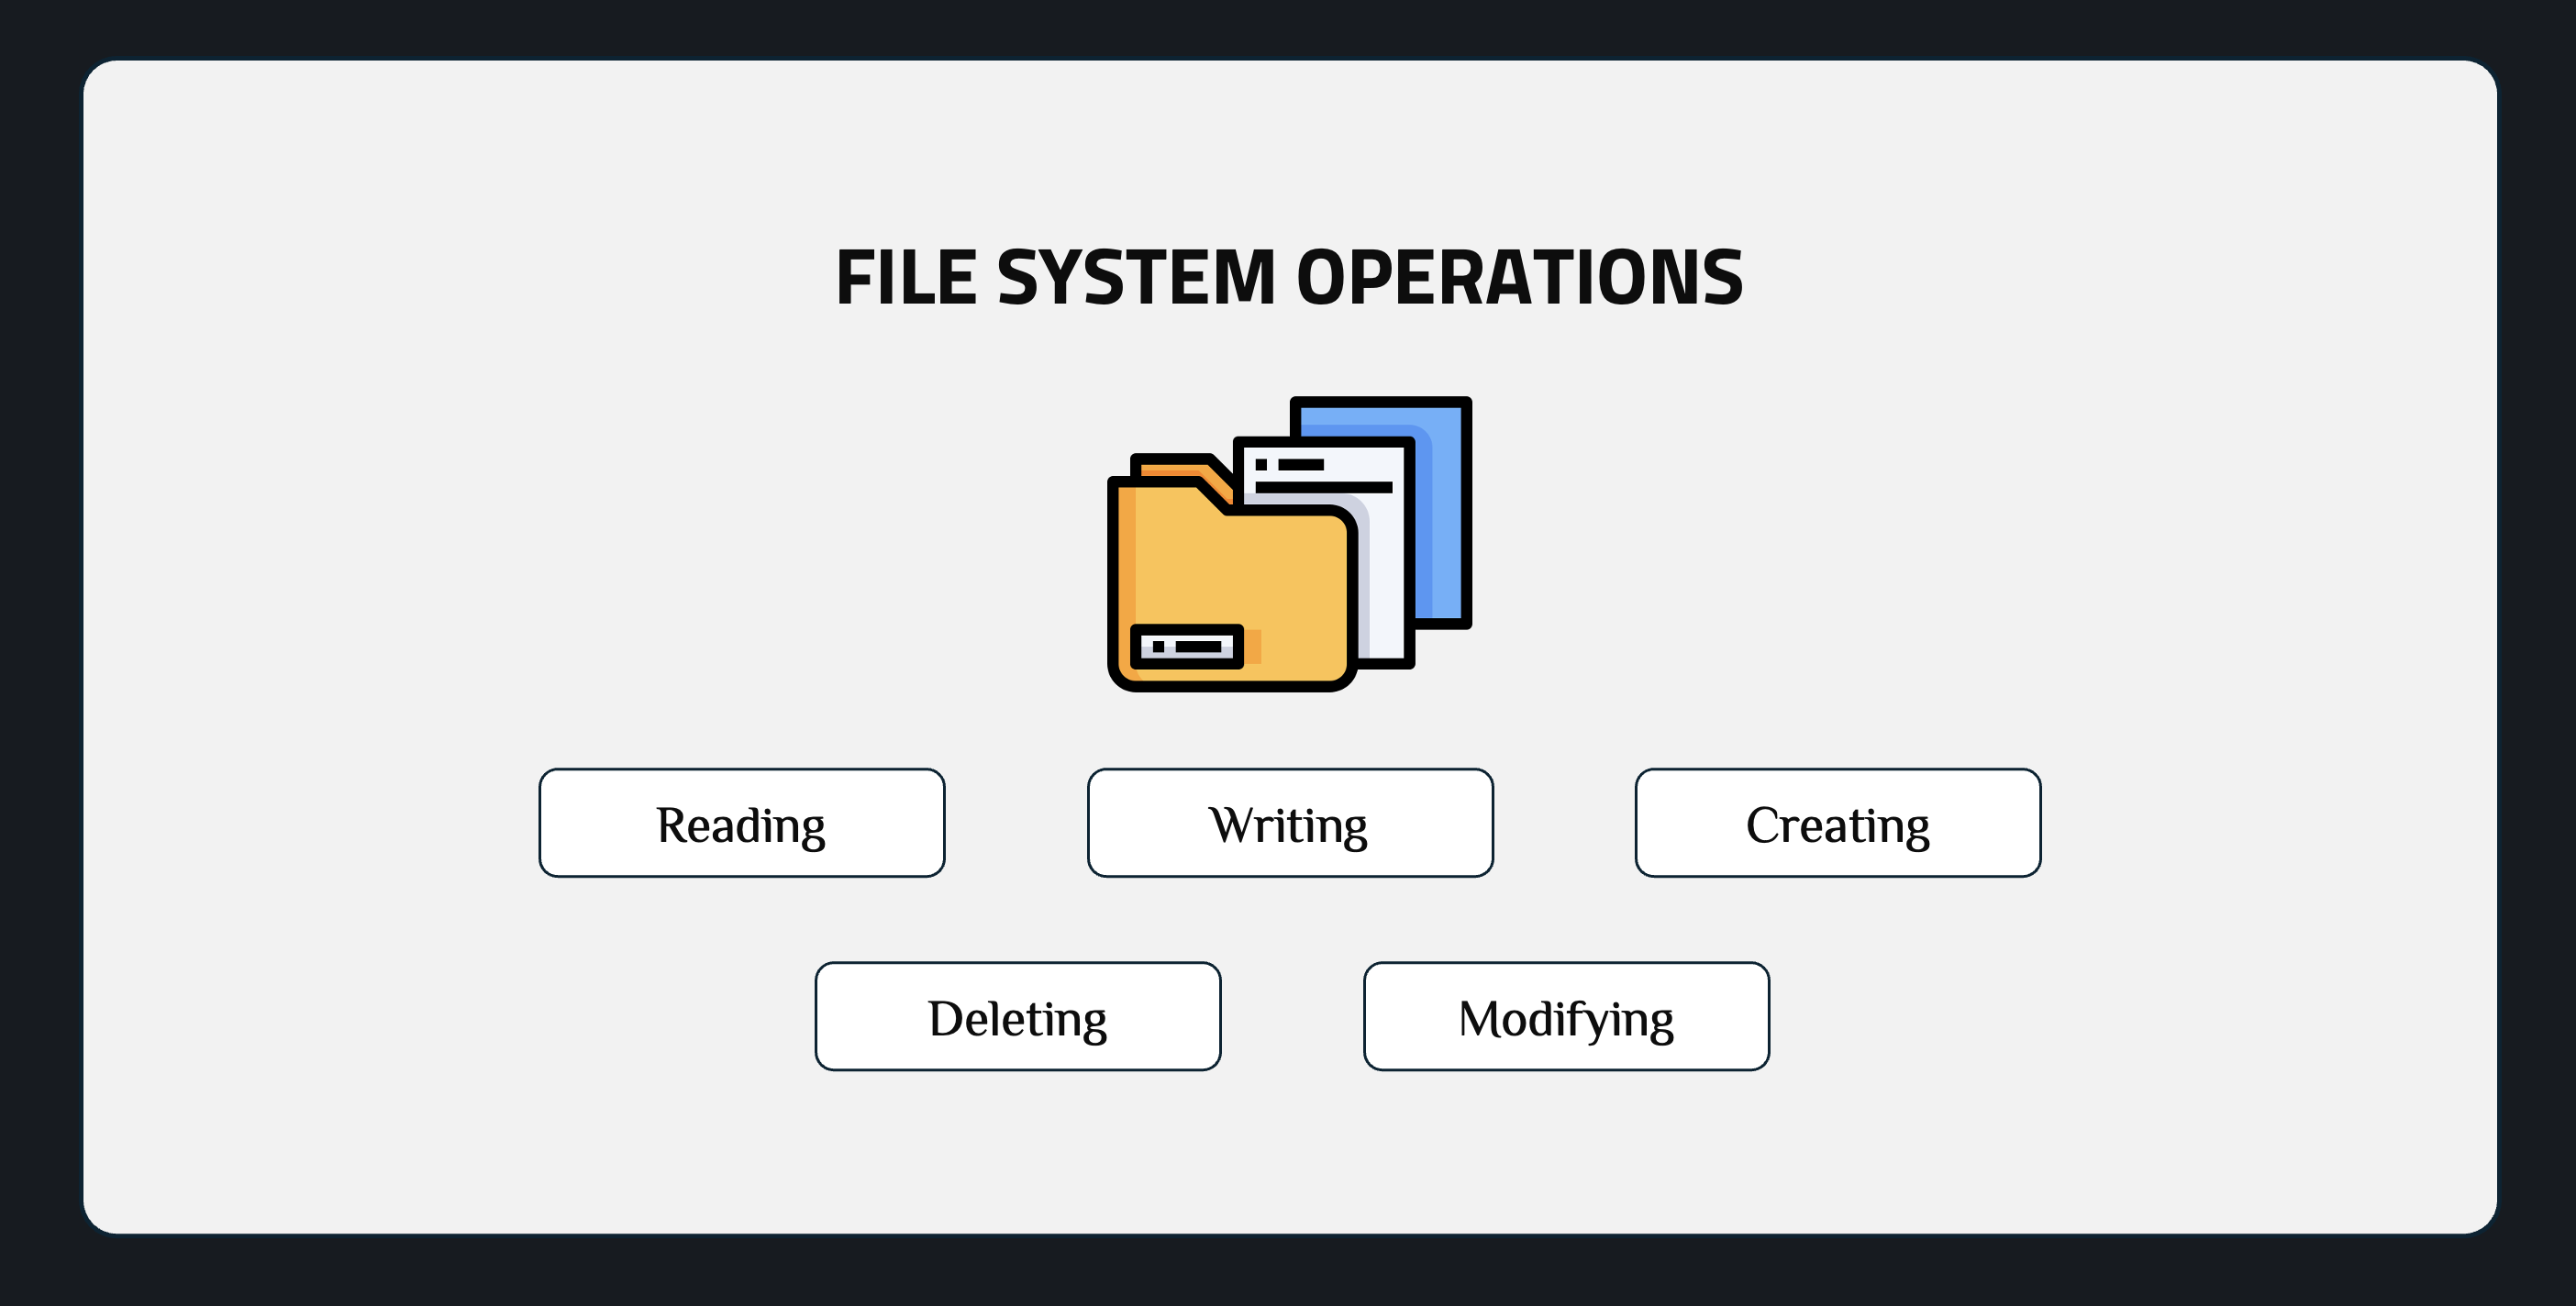
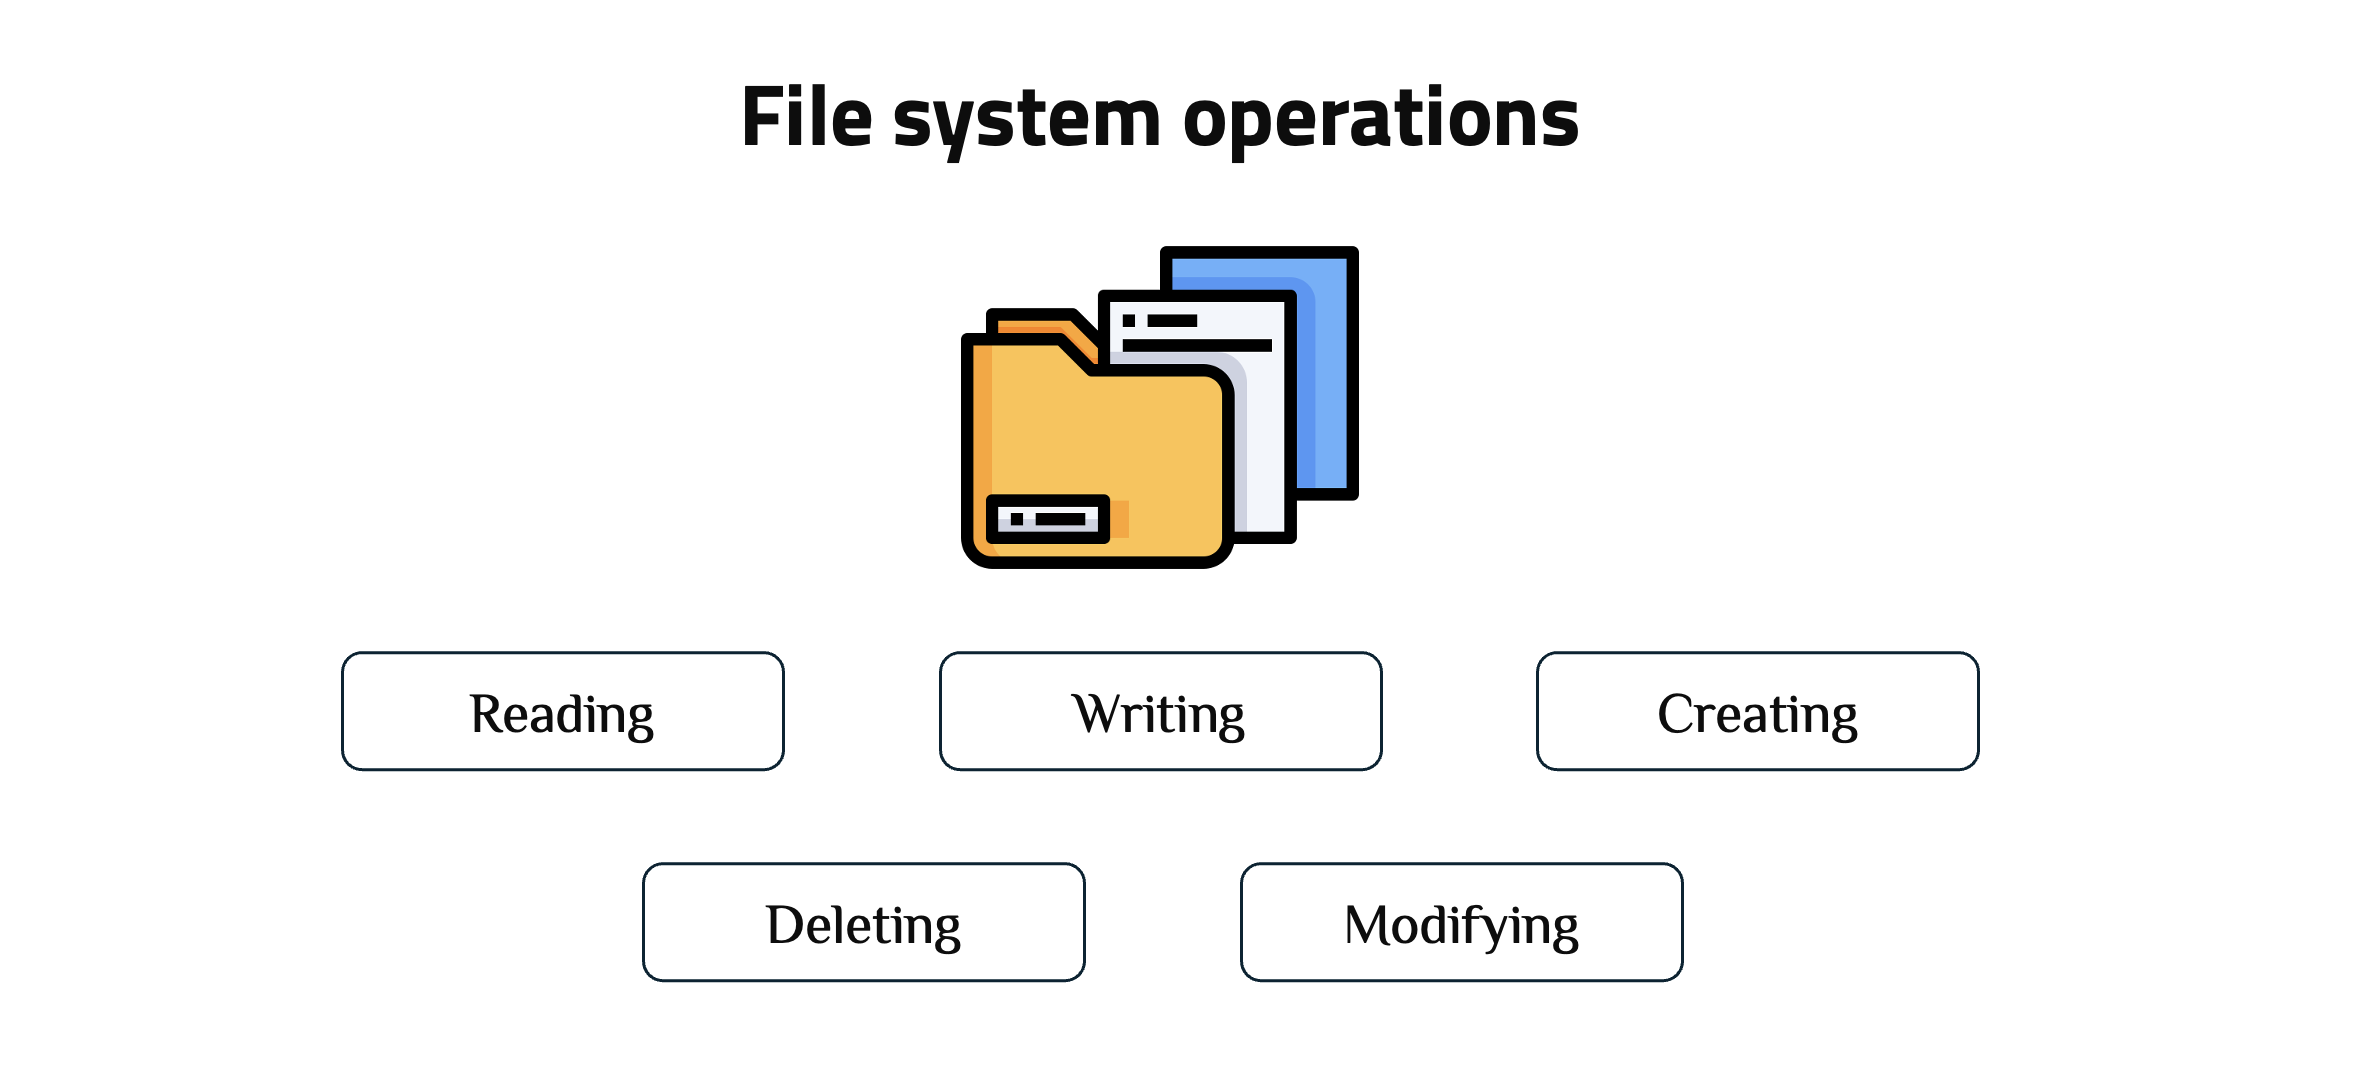
docs: enhanced document for fs and swagger

diff --git a/02_File_System/Path_Manipulation/README.md b/02_File_System/Path_Manipulation/README.md
@@ -23,17 +23,13 @@ Path manipulation refers to the process of working with file and directory paths
 
 **Path Delimiter**: The character used to separate path segments.
 
+- Example (POSIX): `/`
+- Example (Windows): `\`
+
 **Path Separator**: The character used to separate multiple paths in environment variables.
 
-### Platform Differences
-
-| Feature          | POSIX (Linux/Mac)     | Windows                  |
-| ---------------- | --------------------- | ------------------------ |
-| Path Delimiter   | `/`                   | `\`                      |
-| Path Separator   | `:`                   | `;`                      |
-| Root             | `/`                   | `C:\`, `D:\`, etc.       |
-| Case Sensitivity | Yes                   | No                       |
-| Example Path     | `/home/user/file.txt` | `C:\Users\user\file.txt` |
+- Example (POSIX): `:` (e.g., `/usr/bin:/bin`)
+- Example (Windows): `;` (e.g., `C:\Windows;C:\Program Files`)
 
 ---
 

diff --git a/10_Restful_API_Logging_Documents/README.md b/10_Restful_API_Logging_Documents/README.md
@@ -16,6 +16,8 @@ API documentation is a technical content deliverable that describes how to use a
 
 **Swagger** is a set of open-source tools built around the OpenAPI Specification. Swagger tools include Swagger UI (interactive API documentation), Swagger Editor (editor for OpenAPI specs), and Swagger Codegen (code generation from specs).
 
+![Swagger](./public/swagger.png)
+
 OpenAPI and Swagger are used together: OpenAPI defines the specification standard, while Swagger provides tools to work with OpenAPI specifications. Swagger UI reads OpenAPI specifications and generates interactive documentation that allows developers to test API endpoints directly from the browser.
 
 ### Why Use API Documentation?